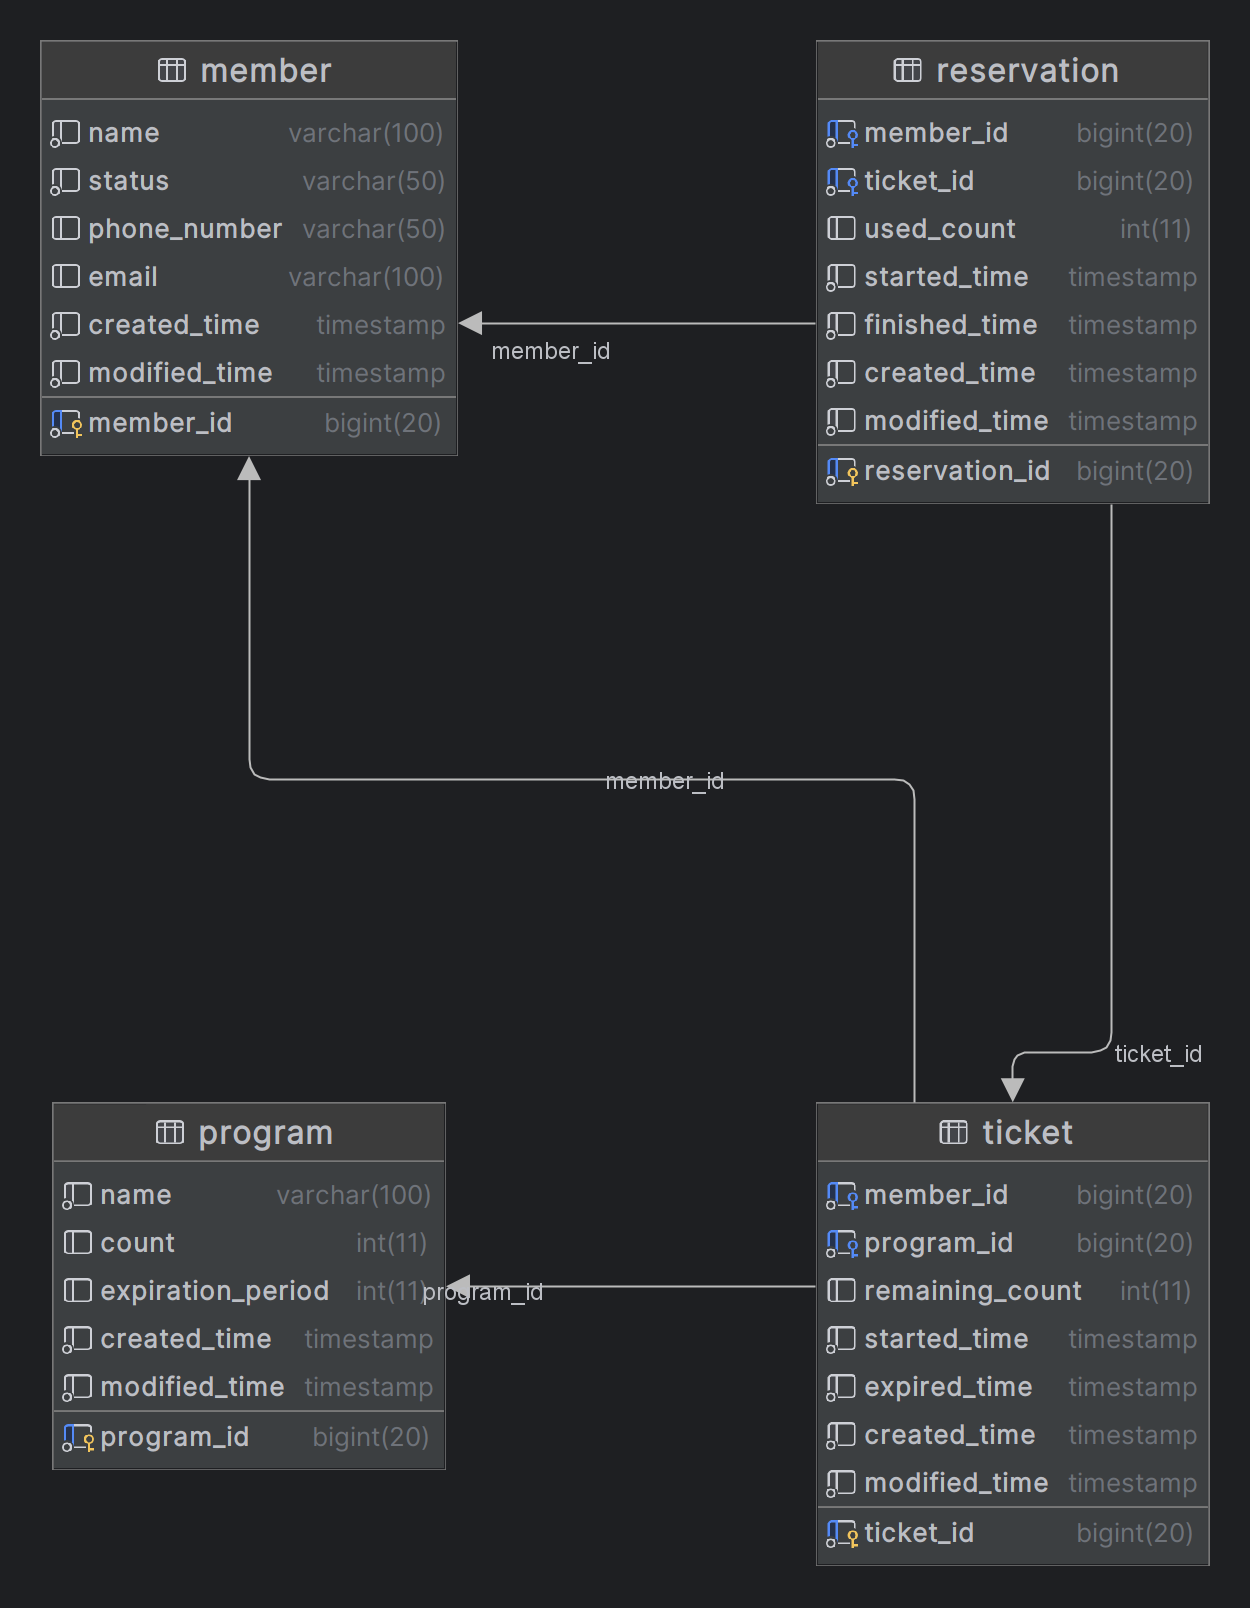
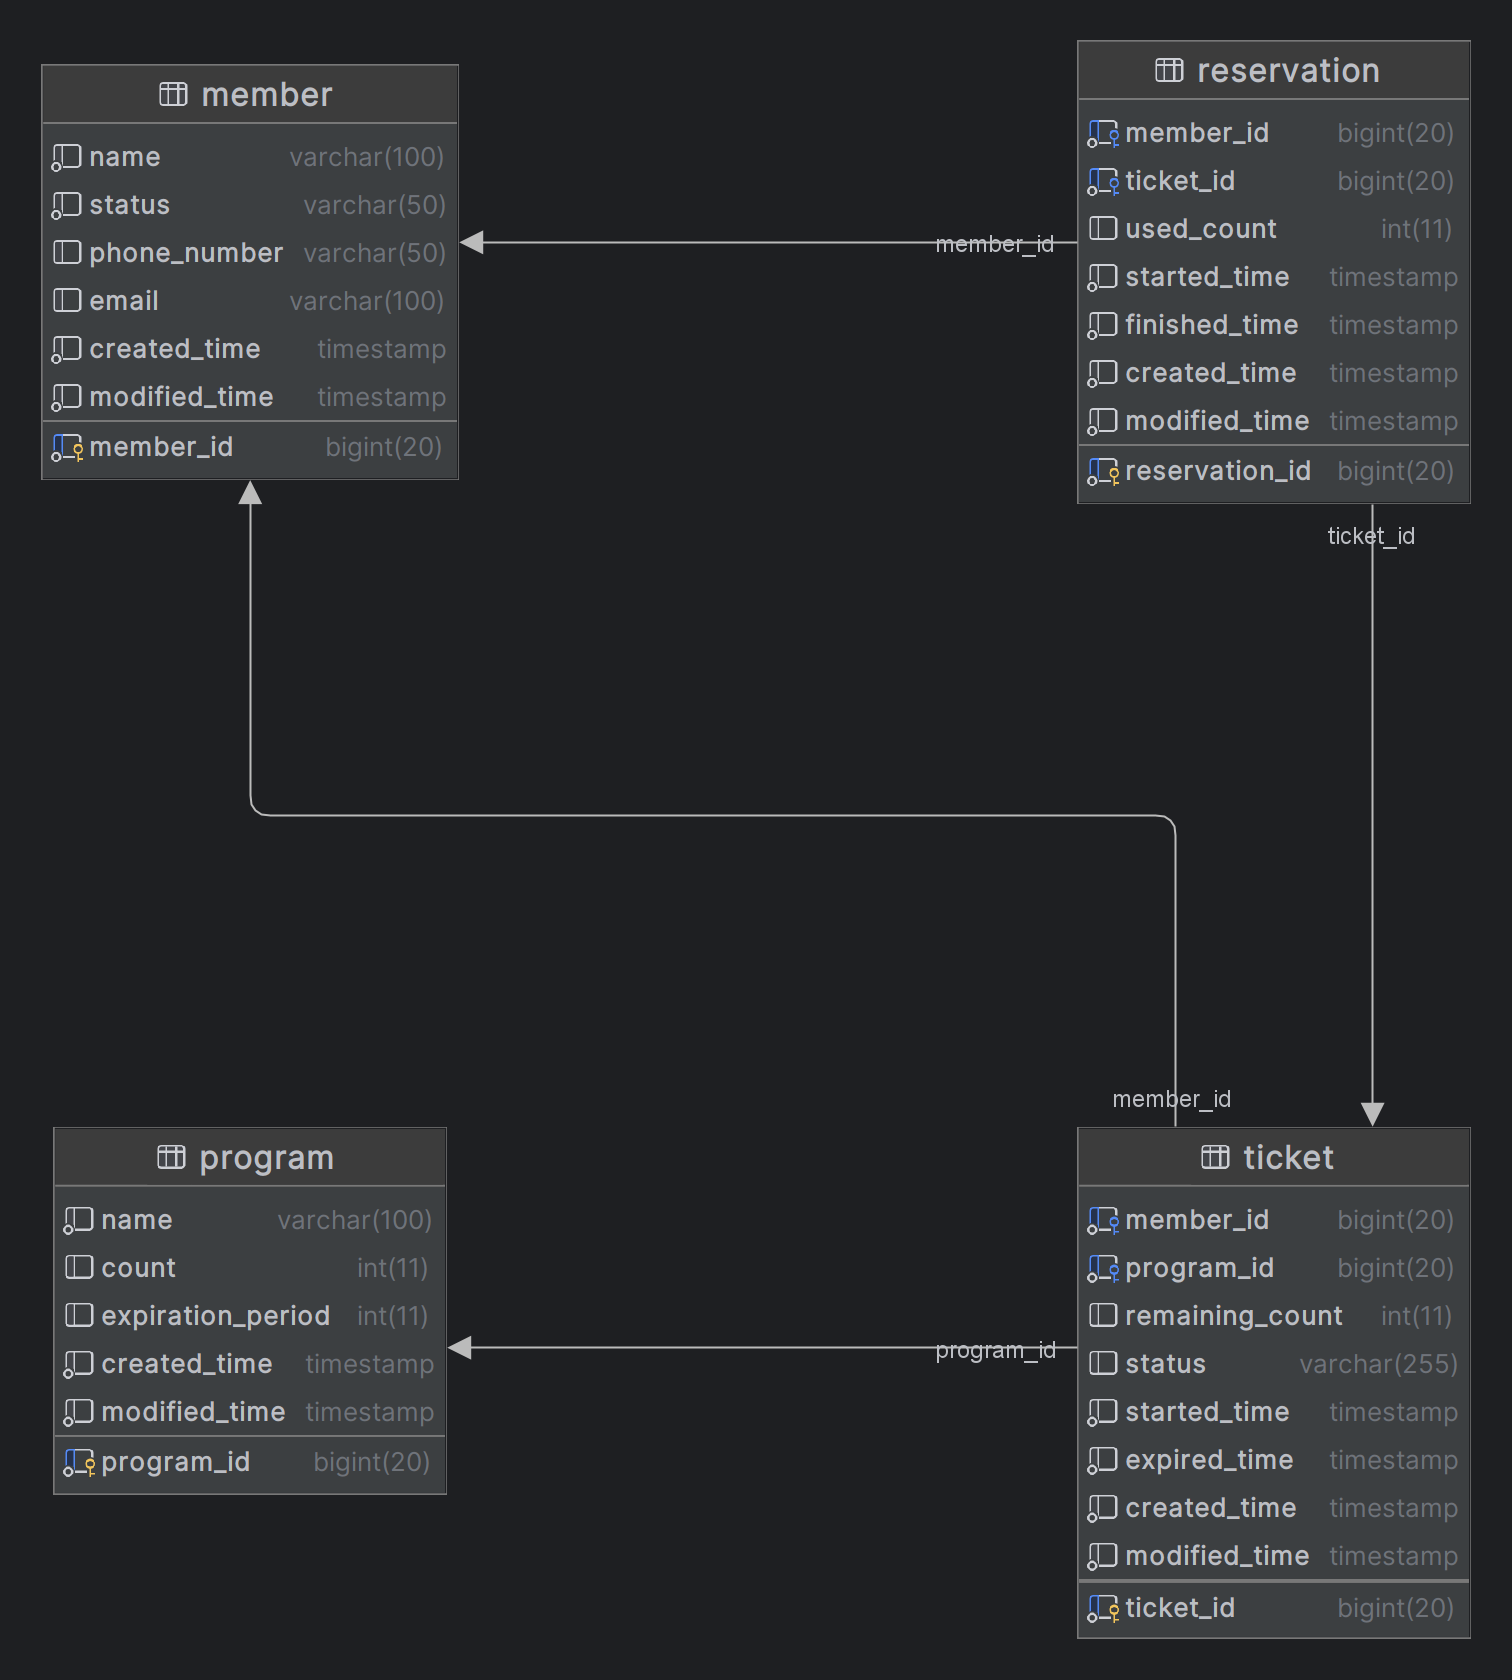
#10 Ticket 테이블 내 컬럼 추가
- 이용권의 상태 표시를 위한 컬럼 추가
-- 컬럼 추가에 따른 Entity 객체 내 필드 추가
-- 컬럼 추가에 따른 초기화 쿼리 및 테스트 쿼리 수정
-- 컬럼 추가에 따른 readme 및 erd 수정

diff --git a/ticket-manager-batch/src/main/java/com/guardjo/ticketmanager/batch/domain/Ticket.java b/ticket-manager-batch/src/main/java/com/guardjo/ticketmanager/batch/domain/Ticket.java
@@ -20,6 +20,9 @@ public class Ticket extends MetaData {
     @Setter
     private int remainingCount;
     @Setter
+    @Enumerated(EnumType.STRING)
+    private TicketStatus status;
+    @Setter
     @Column(nullable = false)
     private LocalDateTime startedTime;
     @Setter

diff --git a/ticket-manager-batch/src/main/java/com/guardjo/ticketmanager/batch/domain/TicketStatus.java b/ticket-manager-batch/src/main/java/com/guardjo/ticketmanager/batch/domain/TicketStatus.java
@@ -1,0 +1,5 @@
+package com.guardjo.ticketmanager.batch.domain;
+
+public enum TicketStatus {
+    READY, PROGRESS, EXPIRED, FINISHED
+}
